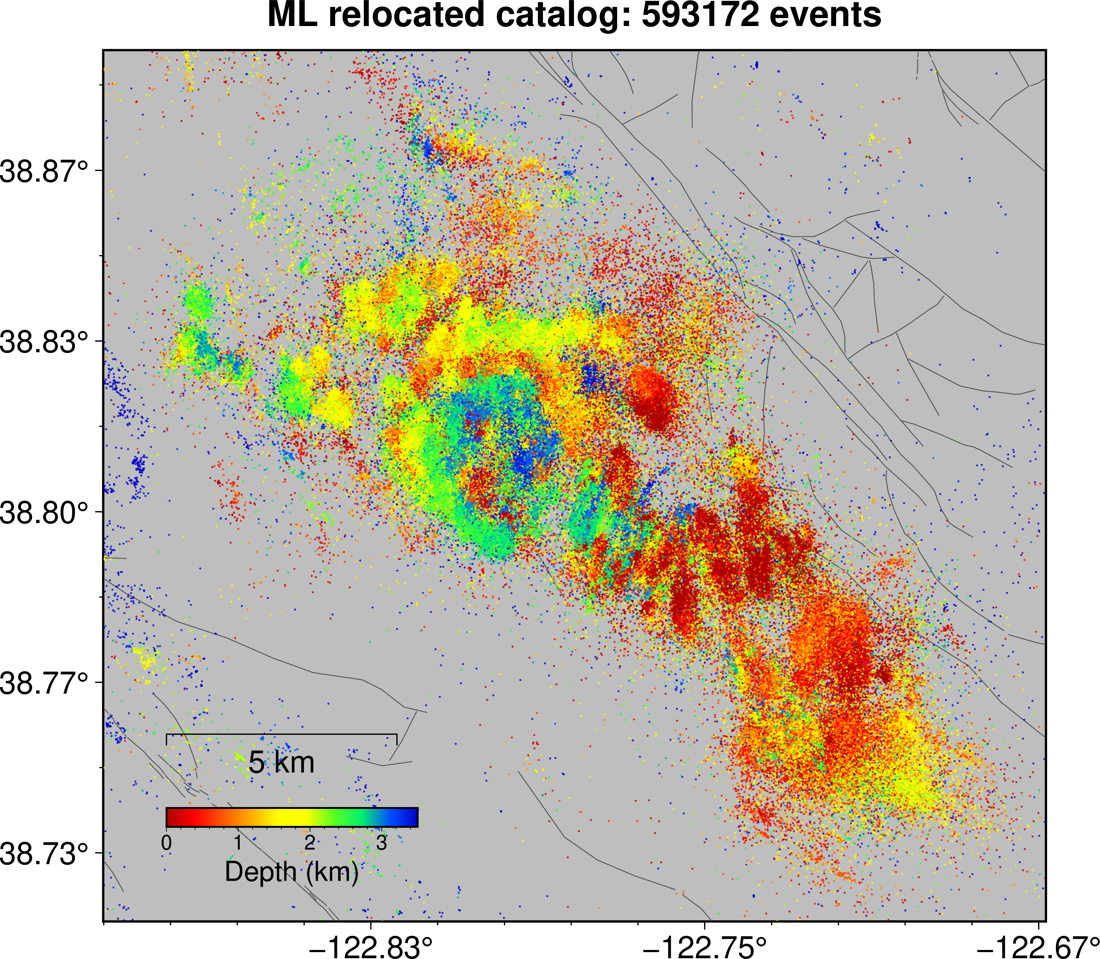
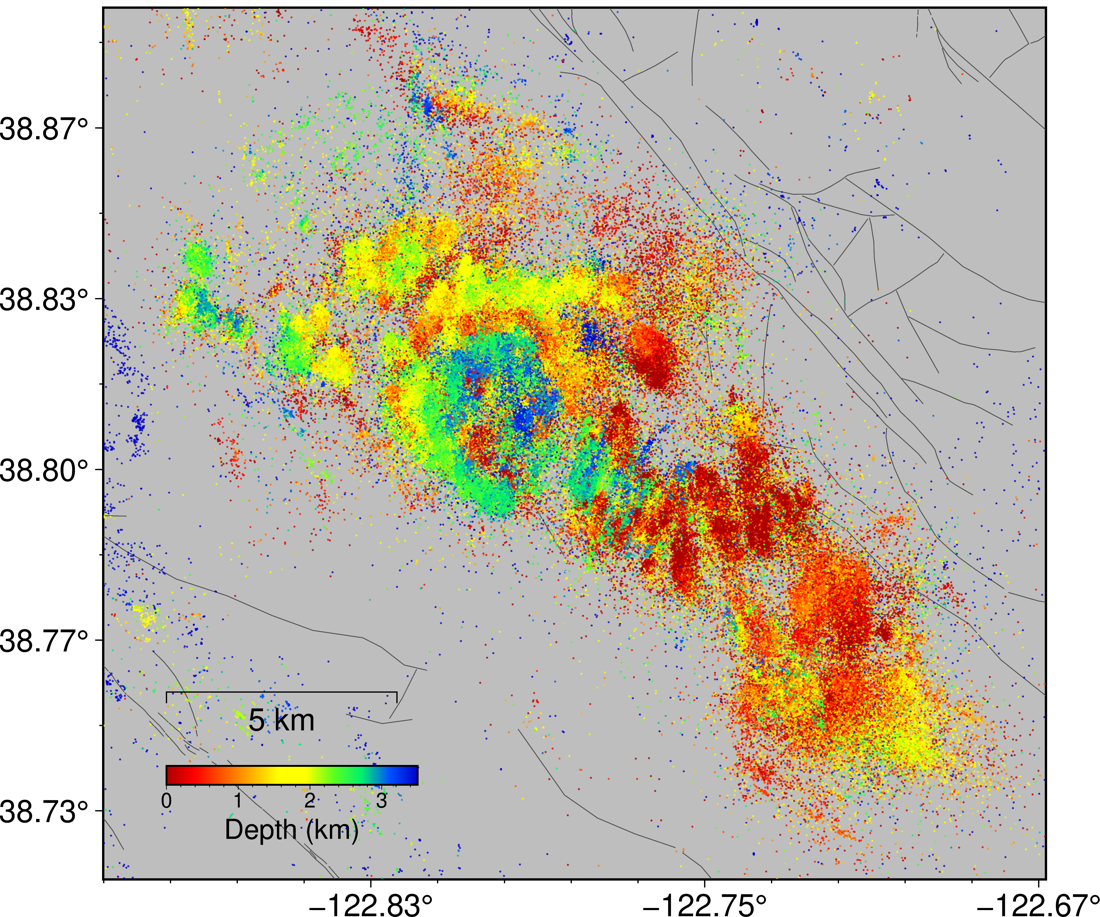
Project figure: crop the catalogue title, and stop quoting event counts

diff --git a/docs/project.md b/docs/project.md
@@ -2,10 +2,10 @@
 
 Everyone works the same field. You choose the question.
 
-![The Geysers, ML relocated catalogue, 2000–2025](assets/geysers_ml_catalog.png)
+![Seismicity at The Geysers, 2000–2025](assets/geysers_ml_catalog.png)
 
-*593,172 relocated events, coloured by depth. The field is about 15 km across and almost everything
-is shallower than 3.5 km. Black lines are mapped faults.*
+*Relocated seismicity, coloured by depth. The field is about 15 km across and almost everything is
+shallower than 3.5 km. Black lines are mapped faults.*
 
 ## Why this field
 
